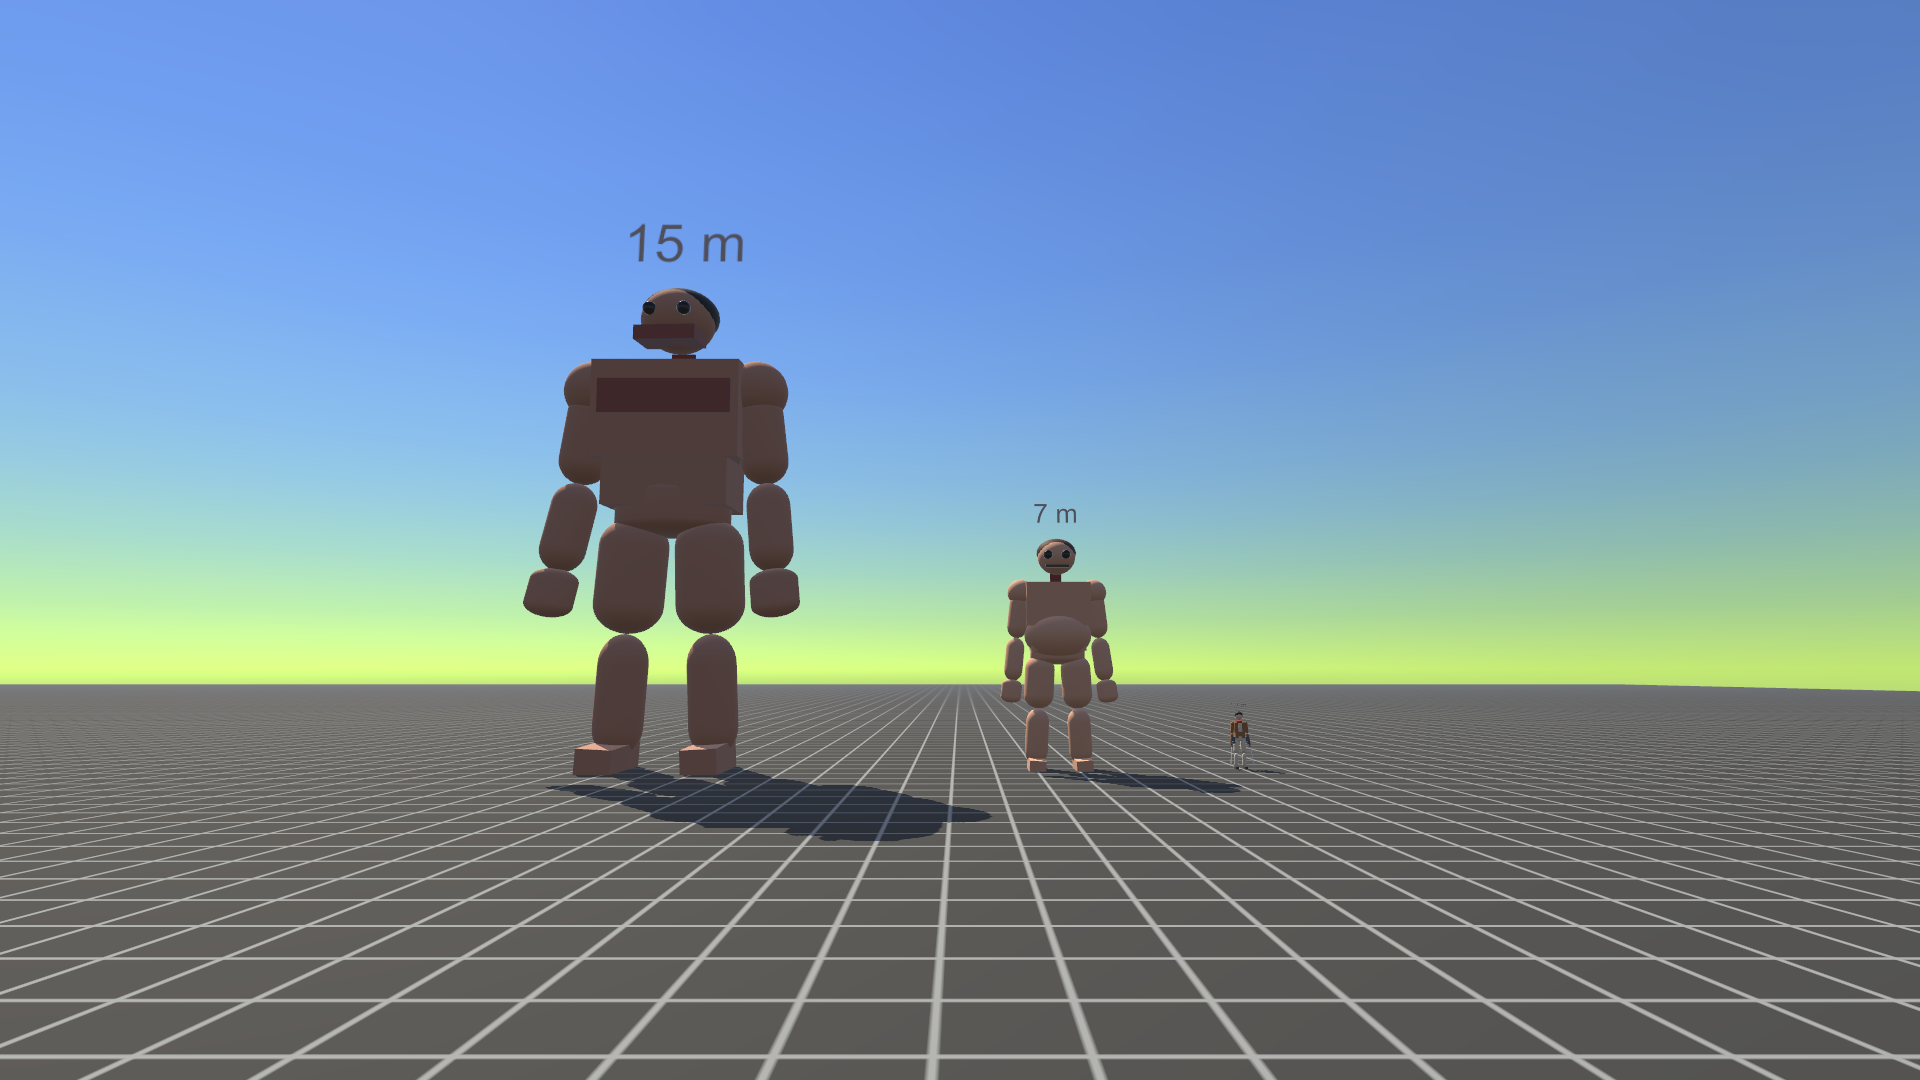
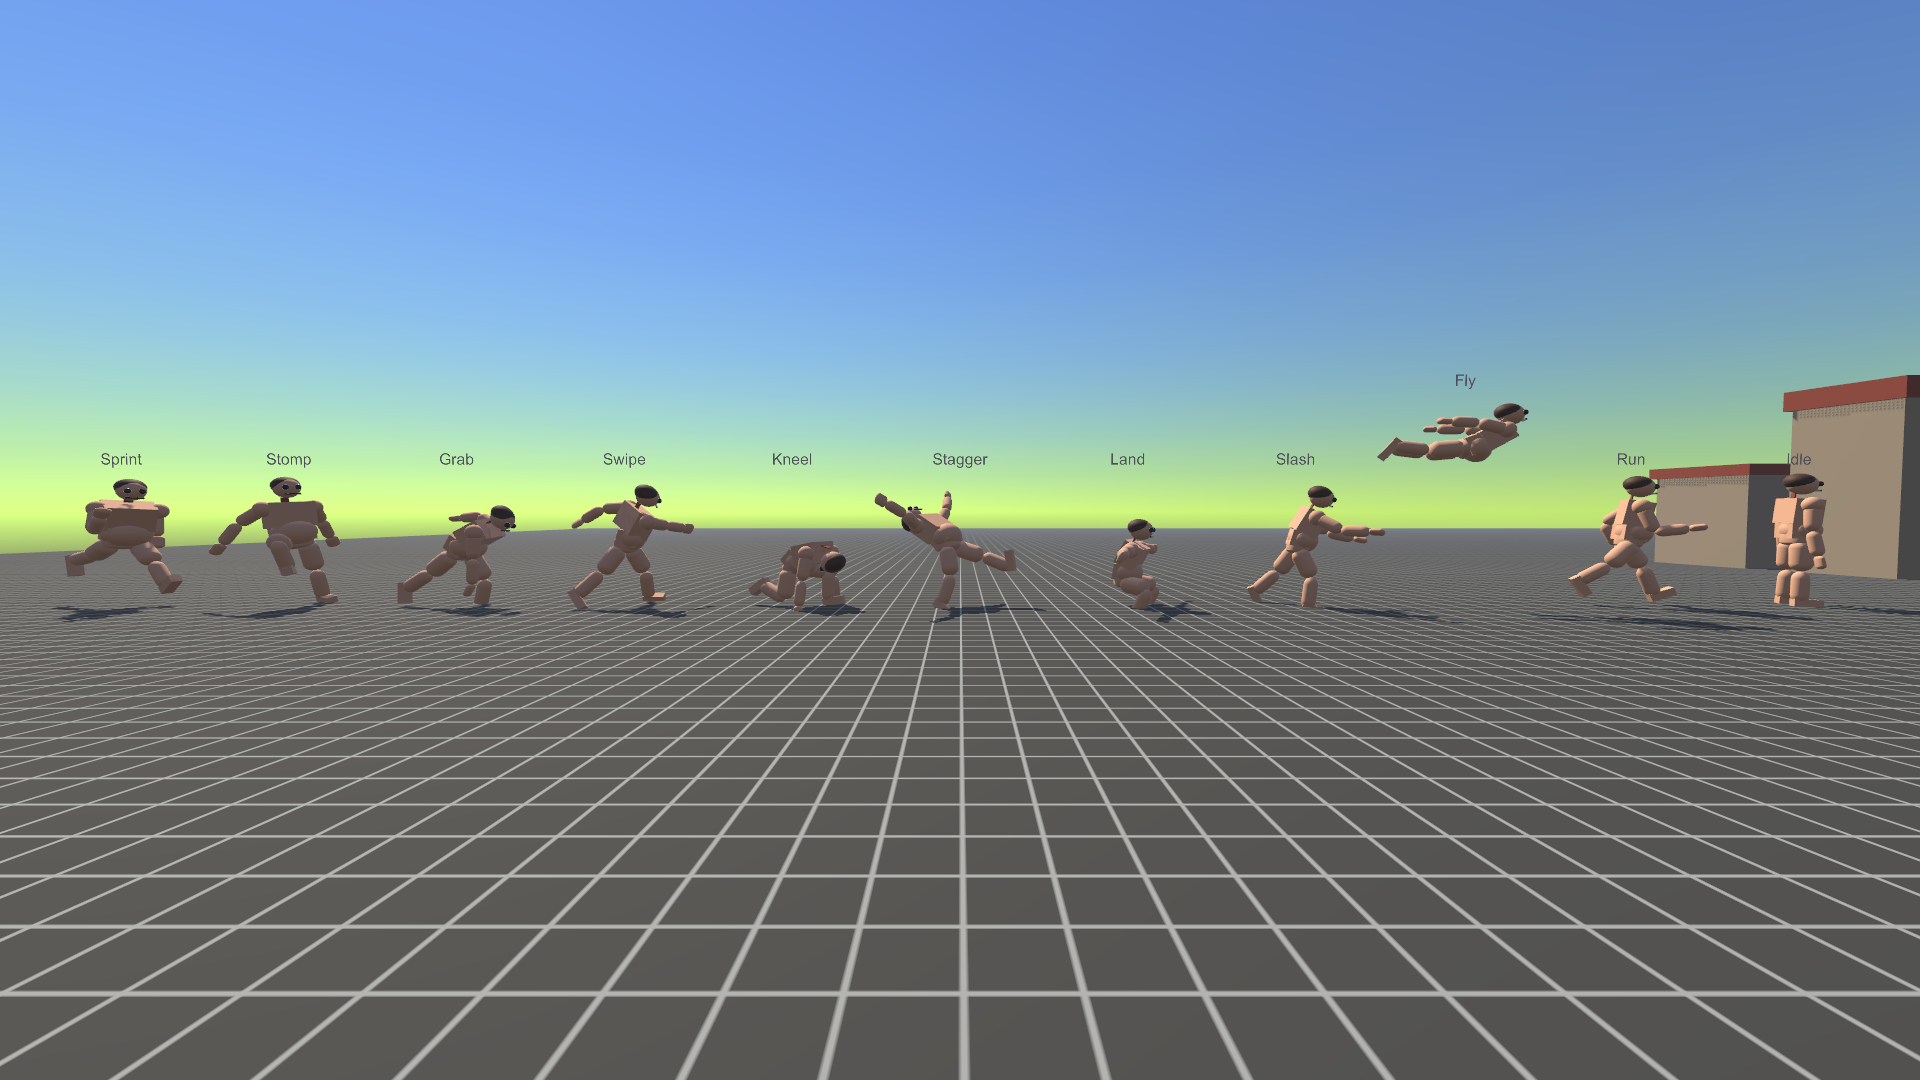
gauntlet: proxies r2 (lose 6), camera r1 (lose 3), town r1 (lose 4)

diff --git a/progress.html b/progress.html
@@ -18,7 +18,7 @@
 .spark{width:160px;height:36px}.spark polyline{fill:none;stroke:var(--muted);stroke-width:1.5}.spark circle.win{fill:var(--win)}.spark circle.lose{fill:var(--lose)}.spark text{fill:var(--muted);font-size:11px}
 .gap{margin:0;font-size:13px}.meta{margin:8px 0 0;font-size:11px}.muted{color:var(--muted)}.round{margin-left:auto;font-family:ui-monospace,Menlo,monospace}
 </style></head><body>
-<div class="top"><h1>AOT FABLE 5.1</h1><span class="wave">wave 0</span><span class="muted">1 round · 16 pieces</span><span class="upd">last verdict 2026-09-01 00:00 UTC · generated 2026-09-02 02:13 UTC</span></div>
+<div class="top"><h1>AOT FABLE 5.1</h1><span class="wave">wave 0</span><span class="muted">4 rounds · 16 pieces</span><span class="upd">last verdict 2026-09-02 00:00 UTC · generated 2026-09-02 06:52 UTC</span></div>
 <main class="grid">
 <article class="card state-building">
   <div class="shot"><div class="noshot">no shot</div></div>
@@ -29,13 +29,13 @@
     
   </div>
 </article>
-<article class="card state-queued">
-  <div class="shot"><div class="noshot">no shot</div></div>
+<article class="card state-iterating">
+  <div class="shot"><img src="shots/town/latest.png" alt="town latest shot" loading="lazy"></div>
   <div class="body">
-    <header><span class="num">1</span><h2>town</h2><span class="badge queued">queued</span></header>
-    <div class="row"><span class="score"><small class="muted">–</small></span><svg class="spark" viewBox="0 0 160 36"><text x="0" y="24" class="muted">no rounds yet</text></svg><span class="round muted"></span></div>
-    <p class="gap"><span class="muted">no verdict yet</span></p>
-    
+    <header><span class="num">1</span><h2>town</h2><span class="badge iterating">iterating</span></header>
+    <div class="row"><span class="score">4<small>/10</small></span><svg class="spark" viewBox="0 0 160 36"><polyline points="80.0,20.8"/><circle cx="80.0" cy="20.8" r="3" class="lose"><title>r1: 4/10 lose</title></circle></svg><span class="round muted">r1</span></div>
+    <p class="gap">materials and atmosphere: our stone/roof textures are flat, low-res repeating tiles with no grime or weathering and skies blow out to pure white, while the reference keeps a graded moody overcast-to-gold palette with haze/smoke that gives real depth and roof silhouettes their variety.</p>
+    <p class="meta muted">gauntlet/town/round-1.json · 2026-09-02 00:00 UTC</p>
   </div>
 </article>
 <article class="card state-queued">
@@ -47,13 +47,13 @@
     
   </div>
 </article>
-<article class="card state-queued">
-  <div class="shot"><div class="noshot">no shot</div></div>
+<article class="card state-iterating">
+  <div class="shot"><img src="shots/camera/latest.png" alt="camera latest shot" loading="lazy"></div>
   <div class="body">
-    <header><span class="num">3</span><h2>camera</h2><span class="badge queued">queued</span></header>
-    <div class="row"><span class="score"><small class="muted">–</small></span><svg class="spark" viewBox="0 0 160 36"><text x="0" y="24" class="muted">no rounds yet</text></svg><span class="round muted"></span></div>
-    <p class="gap"><span class="muted">no verdict yet</span></p>
-    
+    <header><span class="num">3</span><h2>camera</h2><span class="badge iterating">iterating</span></header>
+    <div class="row"><span class="score">3<small>/10</small></span><svg class="spark" viewBox="0 0 160 36"><polyline points="80.0,23.6"/><circle cx="80.0" cy="23.6" r="3" class="lose"><title>r1: 3/10 loss</title></circle></svg><span class="round muted">r1</span></div>
+    <p class="gap">The game's camera stays low and tight over the shoulder with the target framed and a taut anticipation-line to it even at speed, while ours sits high and centered behind a bare capsule with no target lock, no lead-room composition, and no orbit/rotation logic visible in the killcam frame at all.</p>
+    <p class="meta muted">gauntlet/camera/round-1.json · 2026-09-02 00:00 UTC</p>
   </div>
 </article>
 <article class="card state-queued">
@@ -159,9 +159,9 @@
   <div class="shot"><img src="shots/proxies/latest.png" alt="proxies latest shot" loading="lazy"></div>
   <div class="body">
     <header><span class="num">·</span><h2>proxies</h2><span class="badge iterating">iterating</span></header>
-    <div class="row"><span class="score">6<small>/10</small></span><svg class="spark" viewBox="0 0 160 36"><polyline points="80.0,15.2"/><circle cx="80.0" cy="15.2" r="3" class="lose"><title>r1: 6/10 lose</title></circle></svg><span class="round muted">r1</span></div>
-    <p class="gap">Across the titan and boss pose sheets, Stomp/Grab/Swipe/Kneel/Land collapse into the same generic crouched-fists-forward silhouette, so in a still frame a gameplay builder cannot tell which state they're looking at, even though the human/titan/boss scale relationship itself is correct and clearly labeled.</p>
-    <p class="meta muted">gauntlet/proxies/round-1.json · 2026-09-01 00:00 UTC</p>
+    <div class="row"><span class="score">6<small>/10</small></span><svg class="spark" viewBox="0 0 160 36"><polyline points="4.0,15.2 156.0,15.2"/><circle cx="4.0" cy="15.2" r="3" class="lose"><title>r1: 6/10 lose</title></circle><circle cx="156.0" cy="15.2" r="3" class="lose"><title>r2: 6/10 lose</title></circle></svg><span class="round muted">r2</span></div>
+    <p class="gap">Titan and boss Stomp is still just the Run/Sprint mid-stride pose with a raised trailing leg and swinging arms — no raised foot cocked high over the ground, no backward weight shift or downward anticipation, so in a still frame it is indistinguishable from Sprint even though Grab/Swipe/Kneel/Stagger/Land are now clearly differentiated.</p>
+    <p class="meta muted">gauntlet/proxies/round-2.json · 2026-09-02 00:00 UTC</p>
   </div>
 </article>
 </main>
